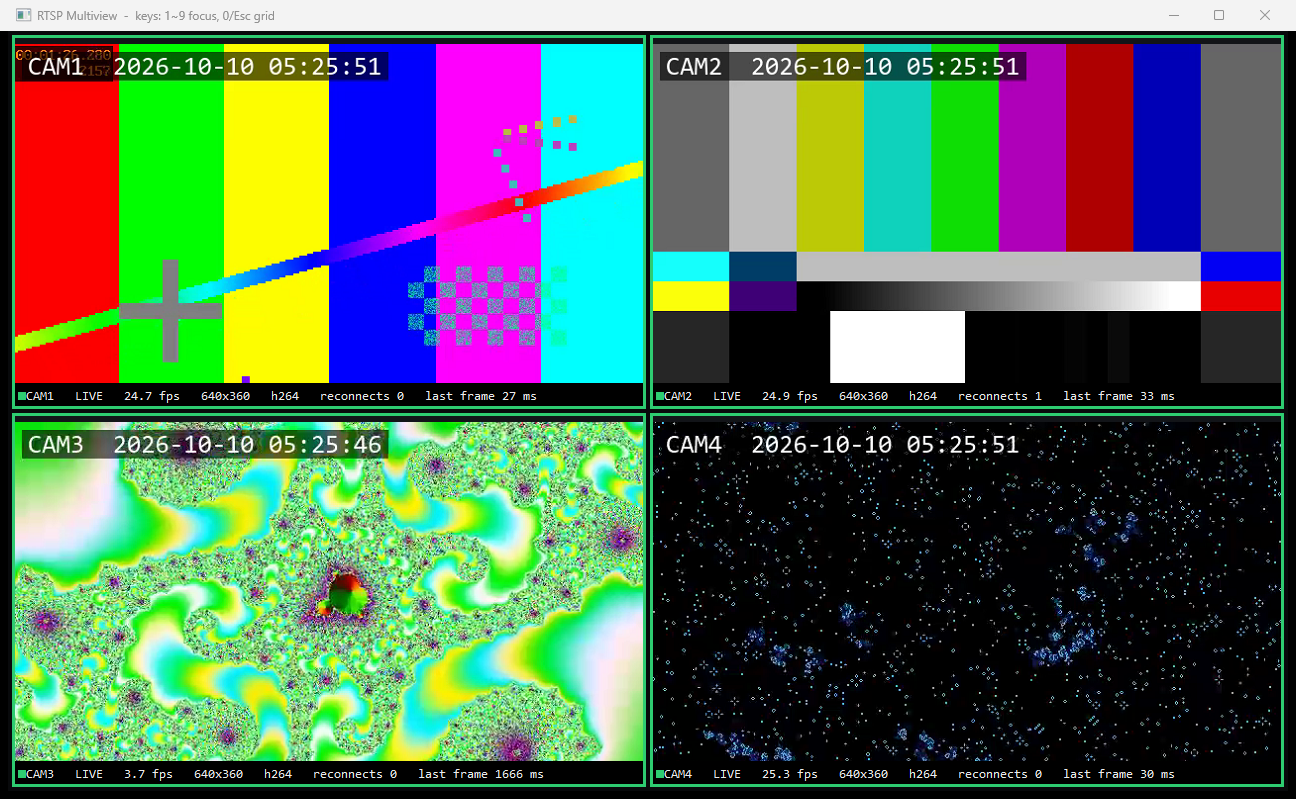
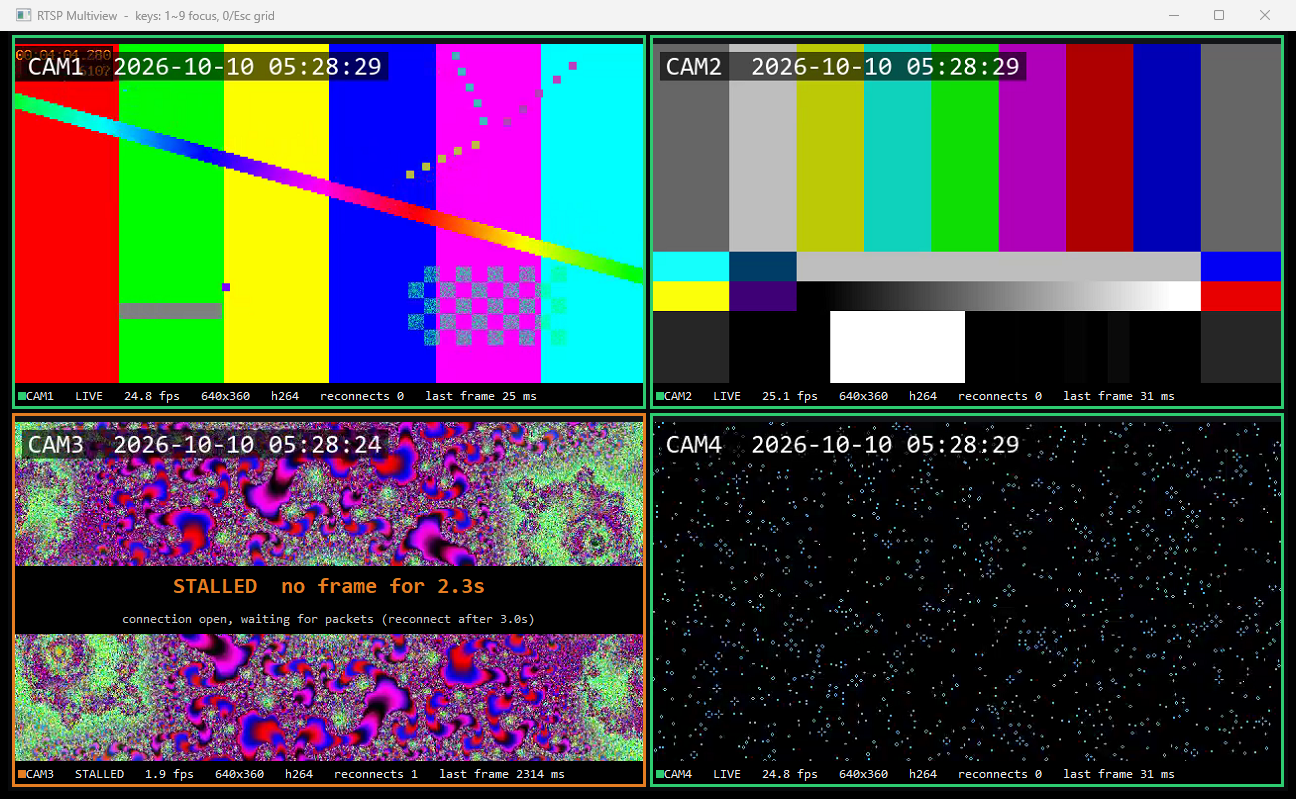
Warn on stalled channels before the reconnect deadline
A frozen camera keeps its connection open, so the channel stayed
green while no new frames arrived. Show an orange STALLED overlay
once a live channel has gone 1s without a frame, ahead of the 3s
reconnect deadline. Add the stall sequence screenshot to the README.

Claude-Session: https://claude.ai/code/session_014URKqFgT7EwGGB9QKL5eN9

diff --git a/src/main.cpp b/src/main.cpp
@@ -79,9 +79,15 @@ void DrawVideo(HDC dc, const RECT& tile, const ChannelSnapshot& s) {
     StretchDIBits(dc, dx, dy, dw, dh, 0, 0, s.width, s.height, s.bgra.data(), &bi, DIB_RGB_COLORS, SRCCOPY);
 }
 
+constexpr int64_t kStallWarnMs = 1000;  // 연결은 살아 있어도 이 시간 동안 새 프레임이 없으면 화면에 경고
+const COLORREF kStallColor = RGB(230, 126, 34);
+
 void DrawTile(HDC dc, const RECT& tile, StreamWorker& w, HFONT small, HFONT big) {
     const ChannelSnapshot s = w.Snapshot(true);
     const int64_t now = NowMs();
+    const int64_t age = s.lastFrameMs ? now - s.lastFrameMs : 0;
+    const bool stalled = s.state == ChannelState::Live && age > kStallWarnMs;
+    const COLORREF accent = stalled ? kStallColor : StateColor(s.state);
 
     FillRectColor(dc, tile, RGB(18, 20, 24));
     DrawVideo(dc, tile, s);
@@ -89,9 +95,13 @@ void DrawTile(HDC dc, const RECT& tile, StreamWorker& w, HFONT small, HFONT big)
     SetBkMode(dc, TRANSPARENT);
 
     // 영상이 멈춘 채널: 마지막 화면 위에 상태를 크게 표시
-    if (s.state != ChannelState::Live) {
+    if (s.state != ChannelState::Live || stalled) {
         std::wstring msg;
-        if (s.state == ChannelState::Reconnecting) {
+        if (stalled) {
+            wchar_t buf[128];
+            swprintf_s(buf, L"STALLED  no frame for %.1fs", age / 1000.0);
+            msg = buf;
+        } else if (s.state == ChannelState::Reconnecting) {
             const double sec = std::max<int64_t>(0, s.retryAtMs - now) / 1000.0;
             wchar_t buf[128];
             swprintf_s(buf, L"RECONNECTING  in %.1fs  (attempt %d)", sec, s.attempt);
@@ -106,11 +116,18 @@ void DrawTile(HDC dc, const RECT& tile, StreamWorker& w, HFONT small, HFONT big)
         band.bottom = band.top + 68;
         FillRectColor(dc, band, RGB(0, 0, 0));
         SelectObject(dc, big);
-        SetTextColor(dc, StateColor(s.state));
+        SetTextColor(dc, accent);
         RECT t1 = band;
         t1.bottom = band.top + 40;
         DrawTextW(dc, msg.c_str(), -1, &t1, DT_CENTER | DT_SINGLELINE | DT_VCENTER);
-        if (!s.lastError.empty()) {
+        if (stalled) {
+            SelectObject(dc, small);
+            SetTextColor(dc, RGB(200, 200, 200));
+            RECT t2 = band;
+            t2.top = band.top + 38;
+            DrawTextW(dc, L"connection open, waiting for packets (reconnect after 3.0s)", -1, &t2,
+                      DT_CENTER | DT_SINGLELINE | DT_VCENTER | DT_END_ELLIPSIS);
+        } else if (!s.lastError.empty()) {
             SelectObject(dc, small);
             SetTextColor(dc, RGB(200, 200, 200));
             RECT t2 = band;
@@ -125,18 +142,18 @@ void DrawTile(HDC dc, const RECT& tile, StreamWorker& w, HFONT small, HFONT big)
     FillRectColor(dc, bar, RGB(0, 0, 0));
     SelectObject(dc, small);
     wchar_t info[256];
-    const long long ageMs = s.lastFrameMs ? (now - s.lastFrameMs) : -1;
+    const long long ageMs = s.lastFrameMs ? age : -1;
     swprintf_s(info, L"  %s   %S   %.1f fps   %dx%d   %S   reconnects %d   last frame %lld ms",
-               Widen(w.Name()).c_str(), ToString(s.state), s.fps, s.width, s.height,
+               Widen(w.Name()).c_str(), stalled ? "STALLED" : ToString(s.state), s.fps, s.width, s.height,
                s.codec.empty() ? "-" : s.codec.c_str(), s.reconnects, ageMs);
     SetTextColor(dc, RGB(235, 235, 235));
     DrawTextW(dc, info, -1, &bar, DT_LEFT | DT_SINGLELINE | DT_VCENTER | DT_END_ELLIPSIS);
 
     // 상태 점
     RECT dot = {bar.left + 6, bar.top + 9, bar.left + 14, bar.top + 17};
-    FillRectColor(dc, dot, StateColor(s.state));
+    FillRectColor(dc, dot, accent);
 
-    DrawFrameBorder(dc, tile, StateColor(s.state), 3);
+    DrawFrameBorder(dc, tile, accent, 3);
 }
 
 void Paint(HWND hwnd) {

diff --git a/README.md b/README.md
@@ -16,7 +16,7 @@ C++과 FFmpeg로 만든 **멀티채널 RTSP 카메라 뷰어**입니다.
 | 화면 출력 | `libswscale`로 BGRA 변환 → Win32 GDI 더블 버퍼링, 비율 유지, 1~9 키로 채널 확대 |
 | **끊김 감지** | 접속 5초, 패킷 대기 3초 상한. FFmpeg `interrupt_callback`으로 블로킹 호출을 끊어 냄 |
 | **자동 재연결** | 0.5 → 1 → 2 → 4 → 8초(상한) 지수 백오프. 영상을 다시 받으면 초기화 |
-| 상태 표시 | 채널별 LIVE / CONNECTING / RECONNECTING, fps, 해상도, 코덱, 재연결 횟수, 마지막 프레임 이후 경과(ms) |
+| 상태 표시 | 채널별 LIVE / STALLED / CONNECTING / RECONNECTING, fps, 해상도, 코덱, 재연결 횟수, 마지막 프레임 이후 경과(ms) |
 | 로그 | 연결 · 끊김 · 재시도 · 복구를 밀리초 단위 시각과 함께 `logs/multiview.log`에 기록 |
 
 ## 구조
@@ -66,6 +66,10 @@ C++과 FFmpeg로 만든 **멀티채널 RTSP 카메라 뷰어**입니다.
 ```
 
 - 소켓은 살아 있어 오류가 나지 않는 경우입니다. 패킷 대기 시간에 상한을 둬서 멈춤을 끊김으로 판단하고 다시 연결했습니다.
+- 재연결 판단(3초) 전이라도 **새 프레임이 1초 넘게 없으면 화면에 STALLED 경고**를 띄웁니다. 관제 화면에서 멈춘 영상을 실시간 영상으로 오인하지 않게 하기 위해서입니다.
+
+![STALLED 1.6초 → 3.1초 → 재연결](docs/05_cam3_stall_sequence.png)
+
 - 멈춘 뒤 감지까지 약 6초가 걸렸습니다. 서버와 소켓 버퍼에 남아 있던 영상이 먼저 소진되고, 그 뒤 3초 동안 패킷이 없어야 감지되기 때문입니다.
 
 | 정상 4채널 | CAM2 복구 후 (`reconnects 1`) |
